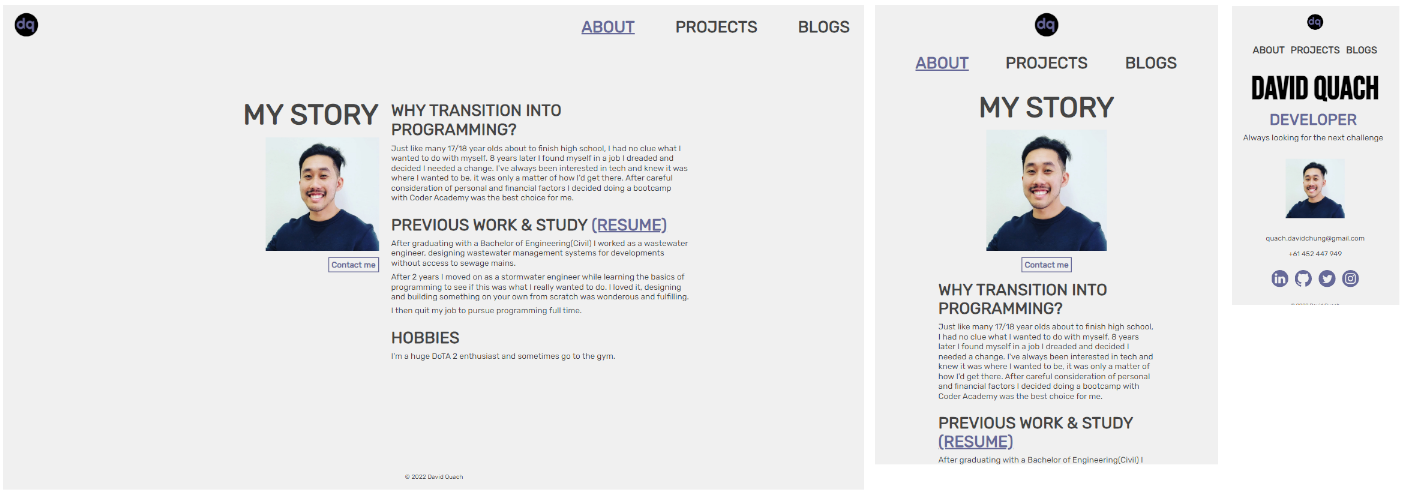
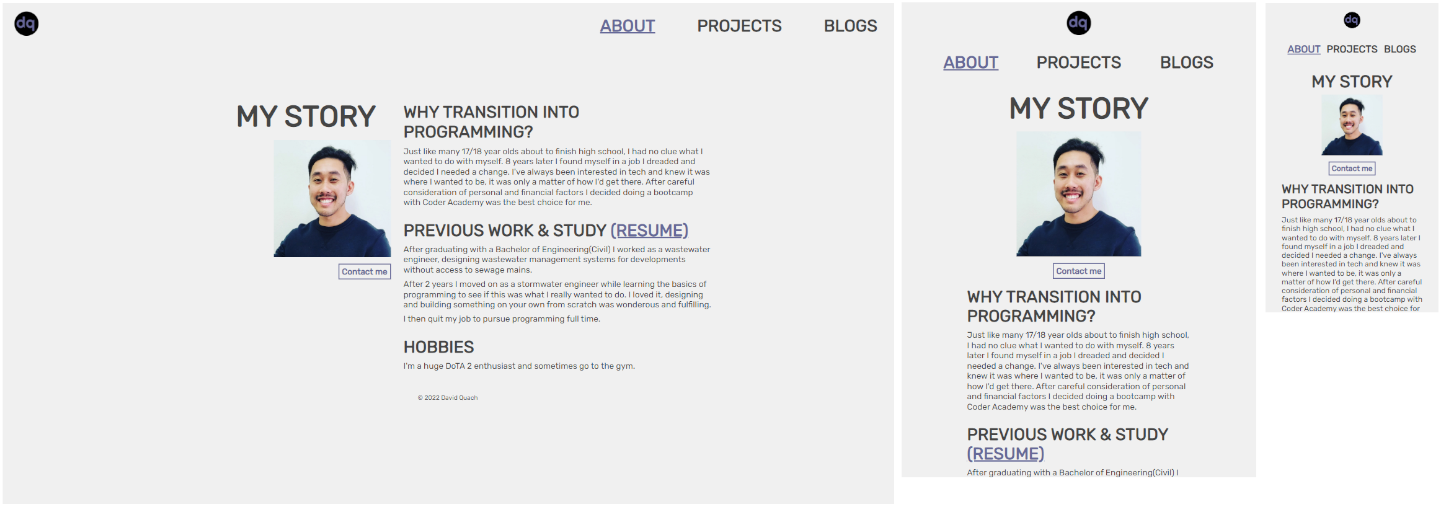
updated about-full.PNG and minor CSS update

diff --git a/src/styles/style.css b/src/styles/style.css
@@ -32,18 +32,19 @@ body {
   margin: 0 auto;
   display: flex;
   flex-direction: column;
-  height: inherit;
 }
 
 * {
   box-sizing: border-box;
 }
 
+/* text styling */
 a.small-text {
   color: var(--clr-accent);
   font-weight: 1000;
 }
 
+/* anchor-styling */
 .project-text-container a,
 .about-section-container h2 a {
   color: var(--clr-accent);
@@ -126,7 +127,6 @@ nav ul {
   text-transform: uppercase;
   font-size: clamp(1.9rem, 2.4vw + 1.1rem, 3rem);
   margin: 0;
-  /* font-size: 1.9rem; */
 }
 
 /* index - info  - text/graphical component*/
@@ -300,6 +300,7 @@ footer p {
   text-transform: uppercase;
   font-size: clamp(2rem, 6.87vw + 0.6rem, 3.5rem);
   margin: 0.2em 0;
+  padding: 0 0.5em;
 }
 
 .small-text {
@@ -579,7 +580,6 @@ p.small-text + .blog-subheading {
     width: 100%;
     order: 1;
     text-align: left;
-    padding: 0 0.5em;
   }
 
   #trending {
